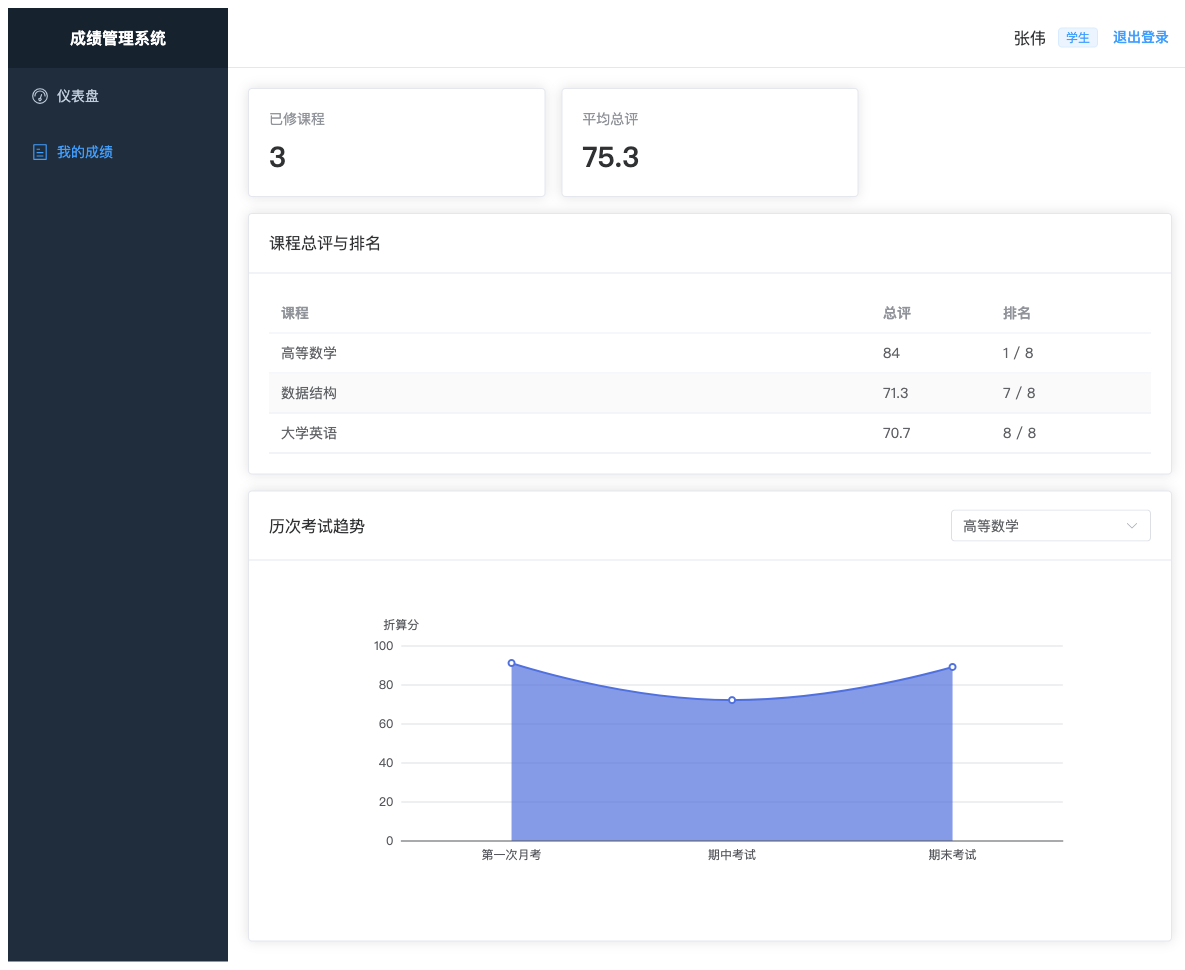
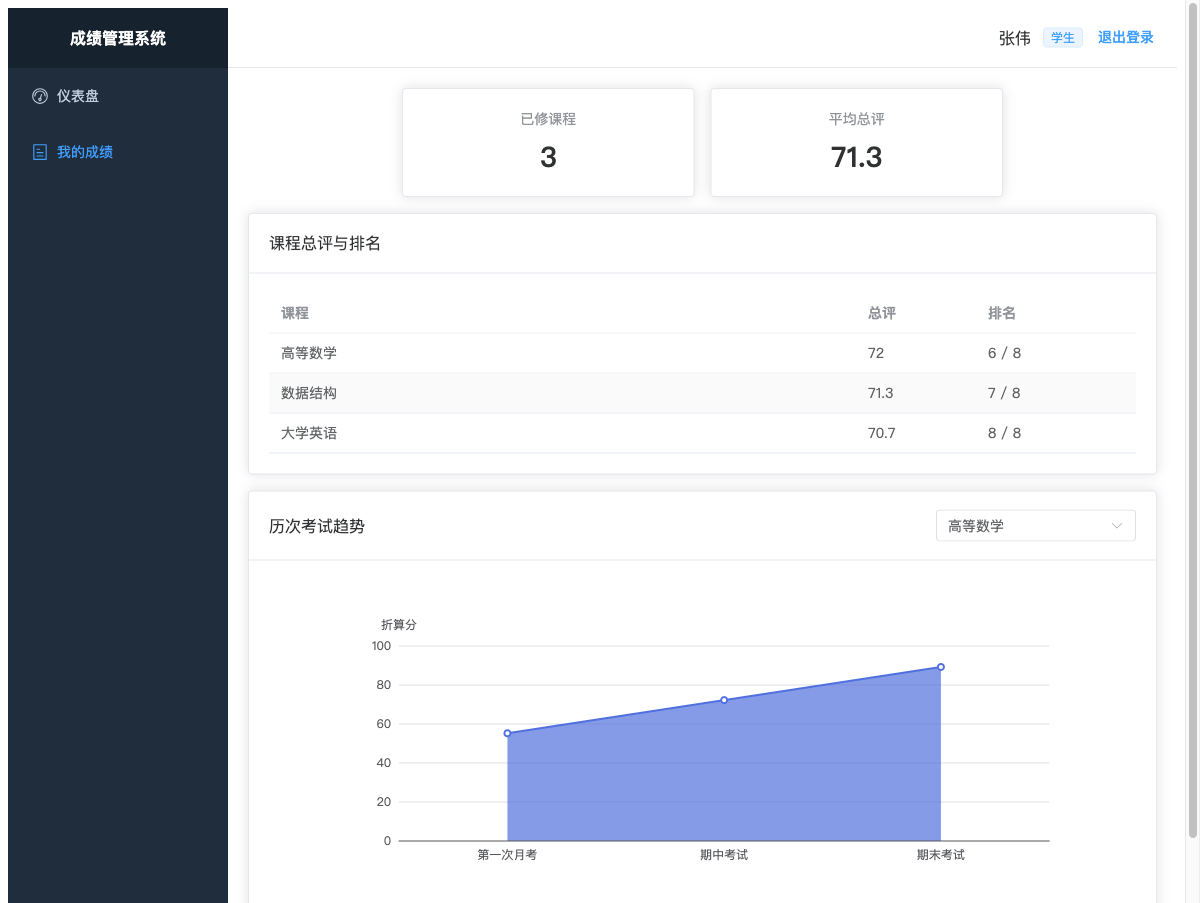
style: center student summary cards on dashboard and my-scores pages

diff --git a/frontend/src/views/Dashboard.vue b/frontend/src/views/Dashboard.vue
@@ -1,14 +1,18 @@
 <template>
   <div v-if="auth.role === 'STUDENT'">
-    <el-row :gutter="16">
+    <el-row :gutter="16" justify="center">
       <el-col :span="8">
         <el-card>
-          <div class="stat"><span>已修课程</span><strong>{{ myCourses.length }}</strong></div>
+          <div class="stat stat-centered">
+            <span>已修课程</span><strong>{{ myCourses.length }}</strong>
+          </div>
         </el-card>
       </el-col>
       <el-col :span="8">
         <el-card>
-          <div class="stat"><span>平均总评</span><strong>{{ averageScore }}</strong></div>
+          <div class="stat stat-centered">
+            <span>平均总评</span><strong>{{ averageScore }}</strong>
+          </div>
         </el-card>
       </el-col>
     </el-row>
@@ -145,6 +149,10 @@ onMounted(async () => {
 .stat span {
   color: #909399;
   font-size: 14px;
+}
+.stat-centered {
+  align-items: center;
+  text-align: center;
 }
 .stat strong {
   font-size: 28px;

diff --git a/frontend/src/views/MyScores.vue b/frontend/src/views/MyScores.vue
@@ -1,6 +1,6 @@
 <template>
   <div>
-    <el-row :gutter="16">
+    <el-row :gutter="16" justify="center">
       <el-col :span="8">
         <el-card>
           <div class="stat"><span>已修课程</span><strong>{{ totals.length }}</strong></div>
@@ -83,7 +83,9 @@ onMounted(async () => {
 .stat {
   display: flex;
   flex-direction: column;
+  align-items: center;
   gap: 8px;
+  text-align: center;
 }
 .stat span {
   color: #909399;
